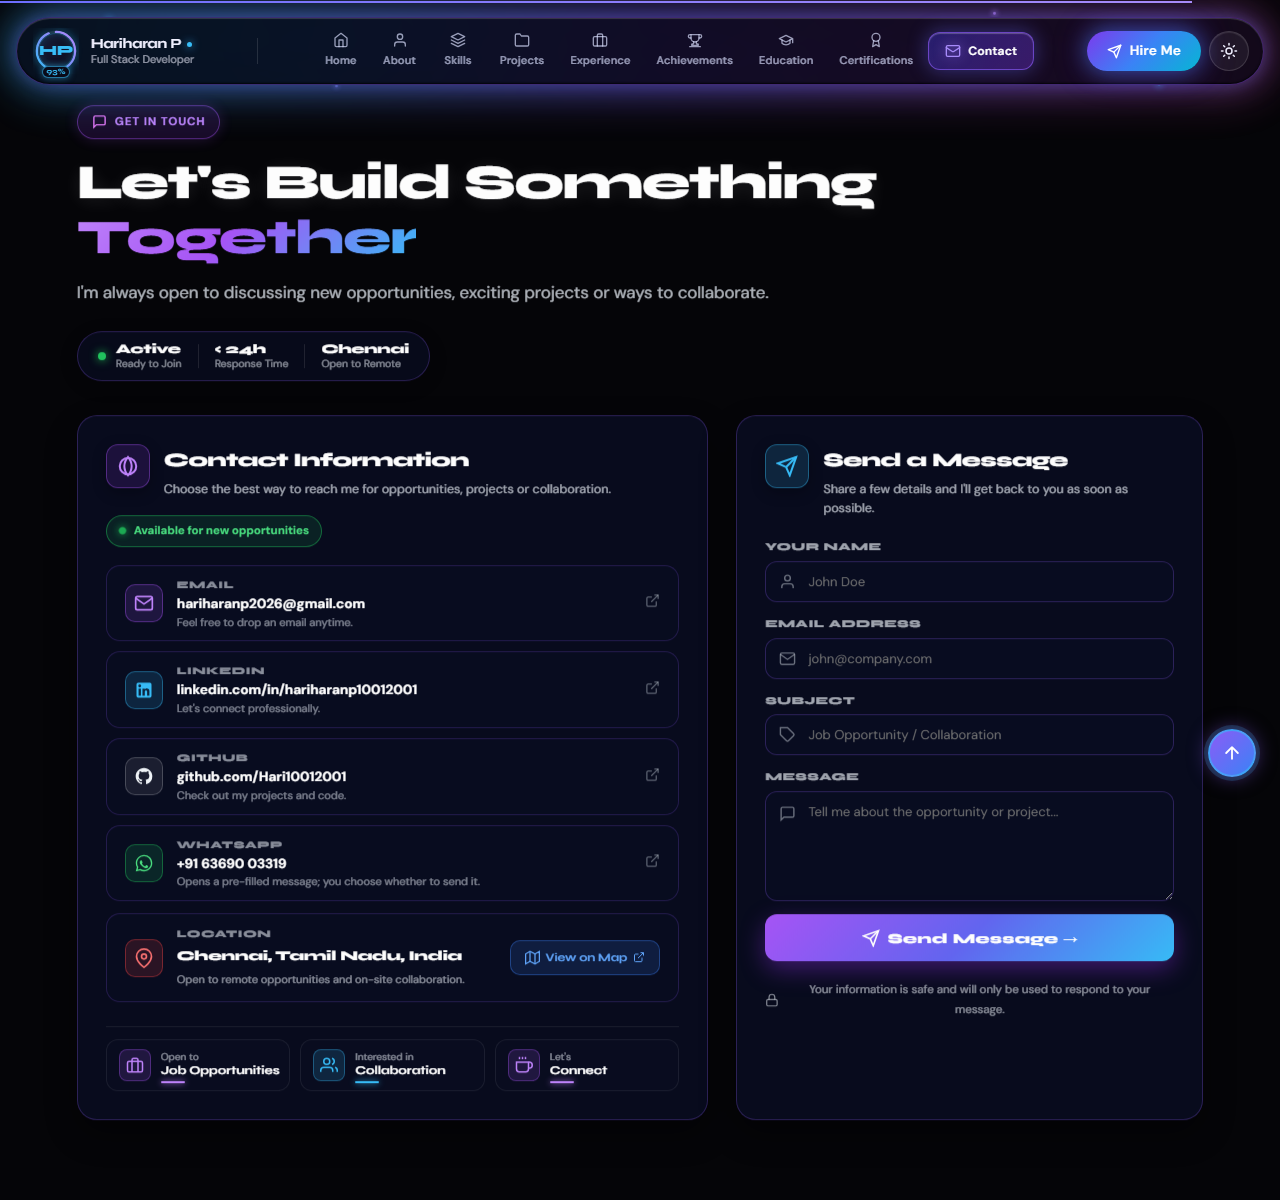
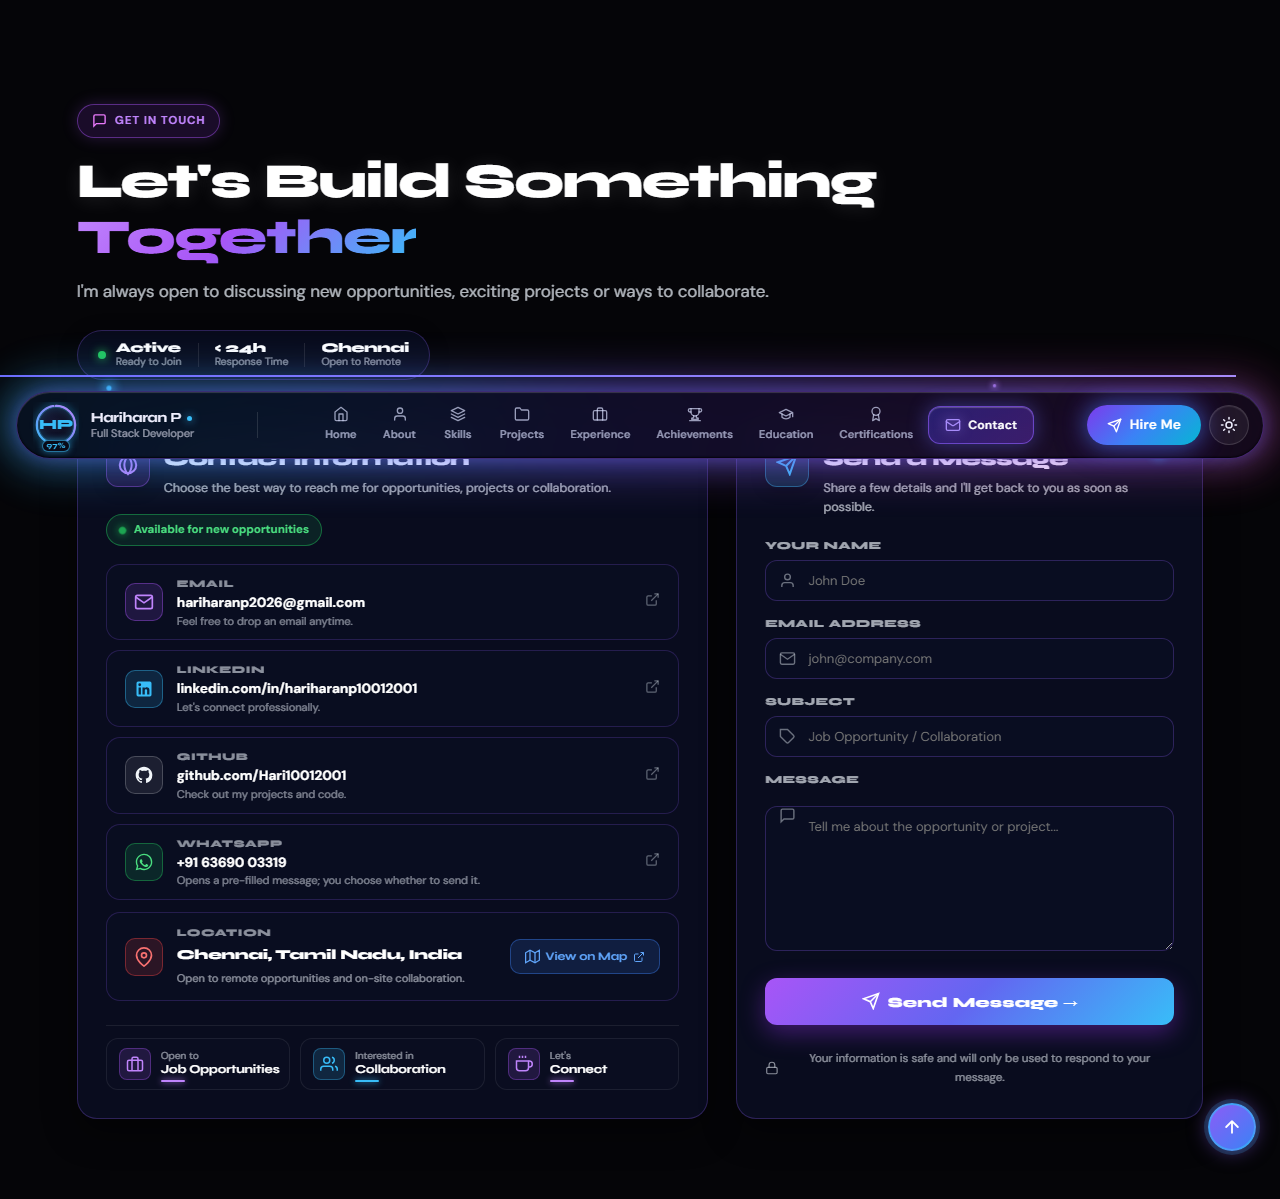
fix(contact): balance right form card height with flex message area and eliminate bottom void

diff --git a/index.html b/index.html
@@ -5469,8 +5469,18 @@ main{display:block}
 .c-pro-form {
   display: flex;
   flex-direction: column;
-  gap: 13px;
+  flex: 1;
+  gap: 14px;
   margin-top: 2px;
+}
+.form-group-message {
+  display: flex;
+  flex-direction: column;
+  flex: 1;
+}
+.form-group-message .input-textarea-wrap {
+  flex: 1;
+  display: flex;
 }
 .form-group-pro {
   display: flex;
@@ -5525,7 +5535,8 @@ main{display:block}
   top: 14px;
 }
 .pro-textarea {
-  min-height: 110px;
+  flex: 1;
+  min-height: 145px;
   resize: vertical;
   line-height: 1.5;
   padding-top: 10px;
@@ -5567,7 +5578,8 @@ main{display:block}
   gap: 6px;
   font-size: 11.5px;
   color: rgba(226, 232, 240, 0.6);
-  margin-top: 6px;
+  margin-top: 10px;
+  margin-bottom: 2px;
   text-align: center;
 }
 [data-theme="light"] .c-privacy-reassurance { color: #64748b; }
@@ -8547,7 +8559,7 @@ footer {
           </div>
         </div>
 
-        <div class="form-group-pro">
+        <div class="form-group-pro form-group-message">
           <label class="form-label-pro" for="cf-message">MESSAGE</label>
           <div class="input-with-icon input-textarea-wrap">
             <span class="input-icon" aria-hidden="true"><svg width="17" height="17" viewBox="0 0 24 24" fill="none" stroke="currentColor" stroke-width="2"><path d="M21 15a2 2 0 0 1-2 2H7l-4 4V5a2 2 0 0 1 2-2h14a2 2 0 0 1 2 2z"/></svg></span>
